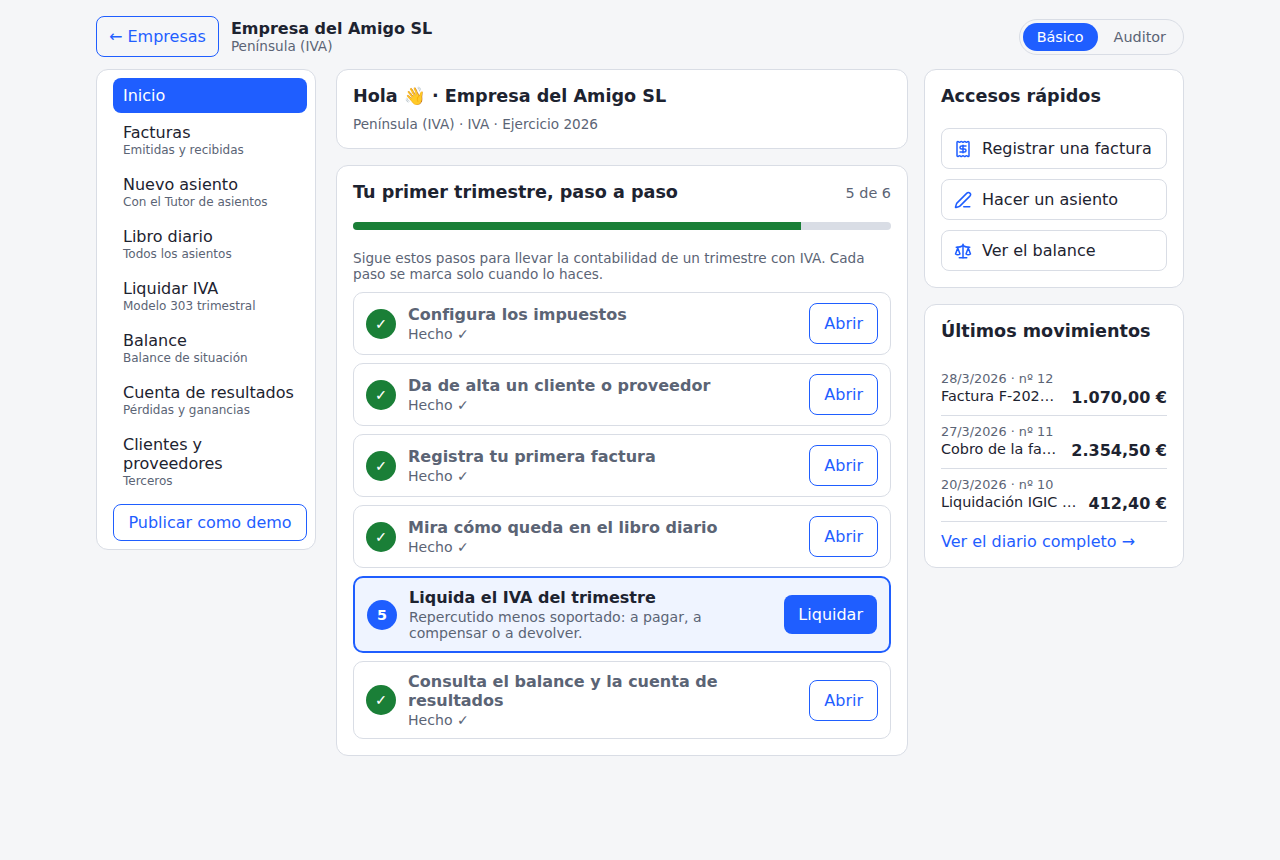
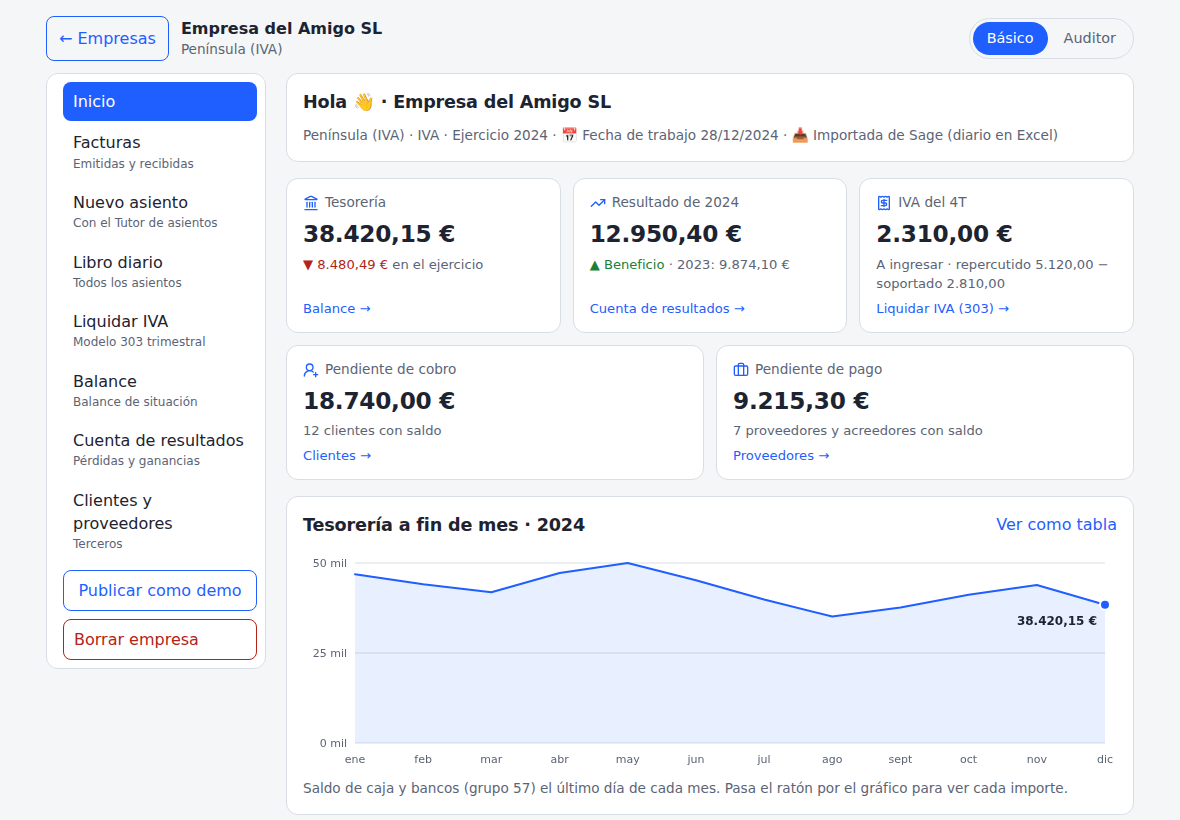
docs: cierre v0.30.0 (ADR 0028, bitácora, CHANGELOG, README y capturas)

diff --git a/README.md b/README.md
@@ -24,20 +24,22 @@ Proyecto de aprendizaje en evolución.
 > - a guided home screen, a Basic / Auditor menu, plain-language error messages, journal-entry templates and an
 >   in-app glossary with Business Central / SAP equivalents. Accessible: no axe-core issues (WCAG 2 A/AA);
 > - an audit trail (ledger → journal entry → ledger of each account), a per-company work date, and fast reports
->   on real multi-year journals (tens of thousands of lines).
+>   on real multi-year journals (tens of thousands of lines);
+> - a home dashboard (cash, result, VAT, receivables, payables and month-end cash chart), comparative statements with
+>   horizontal analysis, a cash-flow waterfall, ratio trends, and Excel export / print for every report.
 >
 > Data model inspired by Business Central and SAP FI. Database in English, bilingual UI (Spanish / English),
 > multi-company and multi-user, with guest access to demo companies (CAPTCHA-protected). Accounting rules are enforced
 > by PostgreSQL, security headers and a strict CSP protect the web, and every pull request is checked by CI
 > (SQL tests, web unit tests, lint, build and dependency audit). Learning project, work in progress.
 
-| Inicio guiado | Asiento con plantilla |
+| Inicio con indicadores | Asiento con plantilla |
 |---|---|
-| ![Inicio con la ruta guiada](docs/capturas/02-inicio.png) | ![Asiento con plantilla y cuadre](docs/capturas/03-asiento-plantilla.png) |
+| ![Inicio con indicadores y tesorería mes a mes](docs/capturas/02-inicio.png) | ![Asiento con plantilla y cuadre](docs/capturas/03-asiento-plantilla.png) |
 | **Balance (modo oscuro) con el glosario** | **Modo auditor de una empresa importada** |
 | ![Balance con el globo del glosario](docs/capturas/04-balance-oscuro.png) | ![Recorrido del auditor](docs/capturas/05-modo-auditor.png) |
 
-Más capturas: [pantalla de entrada](docs/capturas/01-entrada.png) · [errores en lenguaje claro](docs/capturas/06-errores-claros.png) · [Inicio en el móvil](docs/capturas/07-inicio-movil.png)
+Más capturas: [pantalla de entrada](docs/capturas/01-entrada.png) · [errores en lenguaje claro](docs/capturas/06-errores-claros.png) · [Inicio en el móvil](docs/capturas/07-inicio-movil.png) · [cascada del EFE](docs/capturas/08-efe-cascada.png) · [Balance comparativo](docs/capturas/09-balance-comparativo.png) · [libro mayor en el móvil](docs/capturas/10-mayor-movil.png)
 
 ---
 
@@ -48,13 +50,17 @@ española y el funcionamiento real de un ERP. Los ERP comerciales son caros y di
 propia, así que decidí **construir uno**. Diseñar la tabla de asientos obliga a entender *por qué* un ERP impone
 cada regla. Además, todo el código está en inglés para practicar el vocabulario técnico de BC y SAP.
 
-## ¿Qué hace hoy? (v0.29.1)
+## ¿Qué hace hoy? (v0.30.0)
 
 **Primeros pasos y navegación**
 - **Pantalla de Inicio** en cada empresa:
   - **ruta guiada** "Tu primer trimestre, paso a paso" (impuestos → tercero → factura → diario → liquidación →
     balance). Los pasos se marcan solos al hacerlos.
   - en las empresas importadas y las demos, un **recorrido de auditor** por las cuentas.
+  - **indicadores** a la fecha de trabajo: tesorería, resultado (frente al año anterior), IVA/IGIC del trimestre,
+    pendiente de cobro y de pago, y la **tesorería a fin de mes** en un gráfico. Cada cifra lleva a su informe. Salen
+    arriba en las empresas importadas y demos; en una empresa propia, cuando ya tiene lo básico (y la ruta se pliega
+    al completarla).
 - **Modo Básico / Auditor:** un menú corto en lenguaje sencillo para quien empieza (8 entradas) o el menú completo
   por áreas para revisar.
 - **Cada pantalla tiene su enlace** (`#/empresa/<id>/balance`): se puede recargar, volver atrás y compartir.
@@ -103,15 +109,20 @@ cada regla. Además, todo el código está en inglés para practicar el vocabula
 
 **Estados financieros e informes (mirada de auditor)**
 - **Balance de situación** y **cuenta de pérdidas y ganancias** (modelo PYMES del PGC), con desglose hasta la
-  subcuenta.
+  subcuenta y **análisis horizontal**: año anterior, variación en importe y en %. A mitad de ejercicio, la PyG se
+  compara con el mismo periodo y el Balance con el cierre anterior (NIC 34).
 - **Estado de flujos de efectivo** por el método **directo** y el **indirecto**, con el cuadre del auditor entre
-  los dos.
+  los dos, y una **cascada** que enseña de dónde viene y a dónde va el dinero del año.
 - **Ratios:**
   - liquidez, solvencia, endeudamiento y rentabilidad;
   - periodos medios de cobro y de pago;
-  - zonas de referencia y explicación de cada uno.
+  - zonas de referencia y explicación de cada uno;
+  - **evolución de cada ratio** en todos los ejercicios, con su zona de referencia sombreada.
 - **Libro diario**, **sumas y saldos**, **libro mayor** y **saldos anómalos** (saldo contrario a su naturaleza y
   reclasificación al cierre).
+- **Exportar a Excel** (importes como números y fechas como fechas, listos para una tabla dinámica o Power BI) e
+  **imprimir / guardar en PDF** el Balance, la PyG, el EFE, sumas y saldos, el mayor y el diario.
+- En el móvil, el mayor y sumas y saldos se ven como **tarjetas**, y las fechas van en formato dd/mm/aaaa.
 - **Rastro contable:** el nº de asiento del mayor abre la **ficha del asiento**, y cada cuenta de la ficha (y del
   diario) abre su libro mayor; una anulación lleva a su pareja. Como el FBL3N → FB03 de SAP. "Volver" y el botón
   atrás deshacen el camino.
@@ -167,7 +178,7 @@ cada regla. Además, todo el código está en inglés para practicar el vocabula
 | Web | **React + Vite** | Componentes por pantalla, i18n propio (es/en), rutas con almohadilla, iconos `lucide-react` |
 | IA | **Cloudflare Workers AI** + Pages Functions | `/api/ai` (Mistral Small 3.1) y `/api/tutor` (gpt-oss-120b); la clave nunca llega al navegador |
 | Despliegue | **Cloudflare Pages** | Despliegue automático desde `main`, dirección de prueba por rama y cabeceras de seguridad (`_headers`) |
-| Calidad | **GitHub Actions** + **Vitest** + Dependabot | 24 pruebas SQL, 62 tests de la web, lint, build y auditoría de dependencias en cada Pull Request |
+| Calidad | **GitHub Actions** + **Vitest** + Dependabot | 26 pruebas SQL, 75 tests de la web, lint, build y auditoría de dependencias en cada Pull Request |
 | Versionado | Git + GitHub | Ramas, Pull Requests, `main` protegida, versiones etiquetadas y decisiones documentadas (ADR) |
 
 **Principio clave:** la web nunca es la única barrera. Aunque alguien manipule el navegador, PostgreSQL rechaza:
@@ -215,10 +226,10 @@ Detalle en [`docs/modelo-datos.md`](docs/modelo-datos.md) y vocabulario español
 ├── SECURITY.md                cómo avisar de un fallo de seguridad
 ├── scripts/test-db.sh         ejecuta todas las pruebas SQL, cada una en una base limpia
 ├── database/
-│   ├── migrations/            0001 → 0030, se ejecutan en orden en Supabase
+│   ├── migrations/            0001 → 0032, se ejecutan en orden en Supabase
 │   ├── reset/                 reset del schema antiguo (solo histórico)
 │   ├── seed/                  datos de ejemplo (opcional)
-│   └── tests/                 pruebas automáticas en SQL (fases 1 → 24) y simulador de Supabase
+│   └── tests/                 pruebas automáticas en SQL (fases 1 → 26) y simulador de Supabase
 ├── frontend/                  web React + Vite
 │   ├── .env.example           variables de entorno (sin valores reales)
 │   ├── public/_headers        cabeceras de seguridad (CSP…) que aplica Cloudflare Pages
@@ -231,6 +242,9 @@ Detalle en [`docs/modelo-datos.md`](docs/modelo-datos.md) y vocabulario español
 │       ├── workDate.js        fecha de trabajo de cada empresa
 │       ├── paging.js          lecturas de más de 1.000 filas, por páginas
 │       ├── deleteCompany.js   borrar una empresa por tandas
+│       ├── chart.js           marcas de los ejes y tramos de la cascada (gráficos en SVG, sin librerías)
+│       ├── compare.js         análisis horizontal: variación frente al año anterior
+│       ├── exportXlsx.js      exportar los informes a Excel
 │       ├── activity.js        aviso "Cargando…" global
 │       ├── errors.js          errores de la base de datos en lenguaje claro
 │       ├── templates.js       plantillas de asientos frecuentes
@@ -246,17 +260,17 @@ Detalle en [`docs/modelo-datos.md`](docs/modelo-datos.md) y vocabulario español
     ├── glosario.md            vocabulario contable bilingüe
     ├── seguridad-supabase.md  lista de ajustes de seguridad del panel de Supabase
     ├── capturas/              capturas de la app para el README
-    └── decisiones/            ADR 0001 → 0027
+    └── decisiones/            ADR 0001 → 0028
 ```
 
 ## Calidad
 
 - **Integración continua** (GitHub Actions) en cada Pull Request:
-  - las 24 pruebas de la base de datos sobre PostgreSQL 16, cada una en una base limpia con todas las migraciones
+  - las 26 pruebas de la base de datos sobre PostgreSQL 16, cada una en una base limpia con todas las migraciones
     (la fase 23 vigila también que toda clave foránea tenga índice);
-  - **62 tests de la web con Vitest**: formatos, rutas, importadores, errores, idiomas (español e inglés con las
+  - **75 tests de la web con Vitest**: formatos, rutas, importadores, errores, idiomas (español e inglés con las
     mismas claves), glosario, plantillas, la defensa de las funciones de IA, la lectura por páginas, el borrado por
-    tandas y la fecha de trabajo;
+    tandas, la fecha de trabajo, los gráficos, el análisis horizontal y la exportación a Excel;
   - lint, build y auditoría de dependencias de la web.
 - **Accesibilidad** comprobada con axe-core (WCAG 2 A/AA) en las pantallas principales, en modo claro y oscuro.
 - **Rendimiento** probado en local con una contabilidad de 120.000 apuntes antes de cada entrega.
@@ -266,7 +280,7 @@ Detalle en [`docs/modelo-datos.md`](docs/modelo-datos.md) y vocabulario español
 
 1. **Base de datos.** En un proyecto de Supabase:
    - activa **`pg_cron`** en *Database → Extensions* (para la limpieza de invitados);
-   - en el *SQL Editor*, ejecuta en orden `database/migrations/0001` … `0030`.
+   - en el *SQL Editor*, ejecuta en orden `database/migrations/0001` … `0032`.
 2. **API.** En *Project Settings → Data API → Exposed schemas*, añade `erp`.
 3. **Invitados** (opcional, **después** de la migración 0015): *Authentication → Sign In / Providers* → activa
    **Allow anonymous sign-ins**.
@@ -315,15 +329,15 @@ Detalle en [`docs/modelo-datos.md`](docs/modelo-datos.md) y vocabulario español
 Con PostgreSQL instalado (Linux, WSL o Git Bash):
 
 ```bash
-bash scripts/test-db.sh            # las 24 pruebas, cada una en una base limpia
-bash scripts/test-db.sh fase24     # solo las que contienen "fase24"
+bash scripts/test-db.sh            # las 26 pruebas, cada una en una base limpia
+bash scripts/test-db.sh fase25     # solo las que contienen "fase25"
 ```
 
 ### Tests de la web
 
 ```bash
 cd frontend
-npm test                           # 62 tests con Vitest
+npm test                           # 75 tests con Vitest
 ```
 
 ### Importar una contabilidad propia
@@ -362,6 +376,7 @@ cuadrados. El ERP también lee directamente los diarios de Sage (Excel) y Busine
 - [x] **v0.28.0**: seguridad (cabeceras, IA endurecida, CAPTCHA, limpieza de invitados y tests de la web)
 - [x] **v0.29.0**: libro mayor rápido con datos reales, borrar empresa, fecha de trabajo y rastro contable
 - [x] **v0.29.1**: seguridad (solo el propietario nombra titulares de los datos), licencia MIT, SECURITY.md y Dependabot
+- [x] **v0.30.0**: Inicio con indicadores, Balance y PyG comparativos, cascada del EFE, evolución de ratios, Excel e imprimir
 - [ ] Inmovilizado: fichas de activos, plan de amortización y asiento mensual a contabilidad
 - [ ] Inventario y nóminas
 - [ ] IA: supuestos prácticos autocorregidos

diff --git a/docs/decisiones/0028-bloque-visual-indicadores-graficos-y-exportacion.md b/docs/decisiones/0028-bloque-visual-indicadores-graficos-y-exportacion.md
@@ -1,0 +1,74 @@
+# ADR 0028 · Bloque visual: indicadores, estados comparativos, gráficos con criterio y exportación
+
+- **Fecha:** 2026-10-12
+- **Versión:** v0.30.0
+- **Estado:** aceptada
+
+## Contexto
+
+Tres revisiones externas del proyecto coincidieron: el dominio contable y la documentación son lo más fuerte (9 a
+9,5 sobre 10), y lo **visual** es donde más margen hay (6,8 a 8,5). La decisión fue un bloque visual con una premisa:
+**menos es más**. Solo los gráficos que dan información útil de un vistazo; nada de gráficos por hacer gráficos.
+
+## Decisión
+
+1. **Inicio con indicadores** (`erp.home_kpis`, migración 0031). Como el *Role Center* de BC o la *Overview Page* de
+   SAP Fiori:
+   - **5 cifras a la fecha de trabajo**: tesorería (57), resultado (7 − 6) frente al año anterior, IVA/IGIC del
+     trimestre, pendiente de cobro (43) y de pago (40, 41). Cada cifra lleva a su informe.
+   - **Un solo gráfico: tesorería a fin de mes.** Es la primera pregunta de quien lleva una empresa. Tiene el eje
+     desde 0 (con área, cortarlo exageraría), 3 marcas, un único rótulo (el saldo final), un tooltip y "Ver como
+     tabla".
+   - **Reglas contables:**
+     - sin regularización ni cierre (a 31/12 de un ejercicio cerrado no sale todo a 0);
+     - el IVA del trimestre sin el asiento de liquidación (4750 / 4700);
+     - la tesorería inicial es la del asiento de apertura.
+   - **Según quién entra:**
+     - empresa importada o demo → indicadores arriba;
+     - empresa propia que empieza → solo la ruta guiada (los indicadores estarían a 0);
+     - empresa propia con lo básico hecho → los indicadores aparecen debajo de la ruta;
+     - empresa con la ruta completa → indicadores arriba y la ruta plegada.
+   - **Rendimiento:** permiso comprobado una vez (`can_read`) y `jit = off`. El primer intento tardaba 5 s
+     (permisos fila a fila y compilación JIT); el definitivo, 0,17 s con 120.000 apuntes.
+2. **Balance y PyG comparativos** (migración 0032 y `src/compare.js`):
+   - la columna del año anterior ya existía; se añade el **análisis horizontal**: variación en importe y en %, y el
+     año anterior también al desplegar una partida;
+   - **corregido:** a mitad de ejercicio, el Balance se comparaba con la misma fecha del año anterior. Ahora se compara
+     con el **cierre anterior**, y la PyG con el **mismo periodo** (NIC 34);
+   - la variación va **sin color**: que suba un gasto o un ingreso no es bueno o malo por sí solo.
+3. **Gráficos con criterio:**
+   - ✅ **cascada del EFE**: efectivo inicial → explotación → inversión → financiación → efectivo final. Resume más de
+     30 líneas en 5 barras. Lleva el signo escrito además del color y la línea del cero (descubierto);
+   - ✅ **evolución de cada ratio** en todos los ejercicios, con la zona de referencia sombreada. Solo al desplegar el
+     ratio y con 3 años o más: muestra la tendencia, que la tabla no enseña;
+   - ❌ **IVA por trimestre**: 4 cifras que ya están en el historial de liquidaciones. Un gráfico no añadiría nada.
+   - **Dibujados a mano en SVG**, sin librería: pocas líneas, ningún peso extra y la CSP intacta.
+4. **Exportar a Excel e imprimir** (`src/exportXlsx.js`, `ReportActions`) en Balance, PyG, EFE, sumas y saldos,
+   mayor y diario:
+   - importes como **números** con formato, fechas como **número de serie de Excel** (con objetos `Date`, SheetJS
+     desplazaba algunos días por la zona horaria), cuentas como texto y autofiltro en la cabecera;
+   - la librería xlsx solo se descarga al pulsar el botón;
+   - para imprimir, hoja limpia en blanco y negro (también desde el modo oscuro), con empresa y filtros, y la cabecera
+     de la tabla repetida en cada página.
+5. **Pulido:**
+   - mayor y sumas y saldos en **tarjetas** en el móvil (cada importe con su nombre y sin celdas vacías);
+   - fechas dd/mm/aaaa sin desfase;
+   - `tabular-nums` en todas las cifras;
+   - filtros a todo el ancho en el móvil.
+
+## Alternativas descartadas
+
+- **Recharts u otra librería de gráficos:** con una línea, una cascada y una tendencia pequeña, dibujar en SVG es más
+  simple y más ligero. Se reconsiderará si llegan gráficos más complejos.
+- **Indicadores siempre visibles:** en una empresa que empieza estarían a cero y taparían la ruta guiada.
+- **Un dashboard con muchos gráficos:** contradice "menos es más"; el detalle está a un clic en cada informe.
+- **Colorear la variación** (verde sube, rojo baja): engaña con los gastos.
+
+## Consecuencias
+
+- El ERP se entiende de un vistazo al entrar, y los informes salen a Excel para trabajarlos o llevarlos a Power BI.
+- Se corrigieron de paso:
+  - un fallo contable (el Balance intermedio comparado con la misma fecha del año anterior);
+  - un fallo de contraste (opacidad en los pasos pendientes del recorrido);
+  - el desfase de un día en las fechas.
+- Las ideas que quedan están en `docs/ideas-pendientes.md`.

diff --git a/docs/bitacora.md b/docs/bitacora.md
@@ -784,3 +784,33 @@ asientos frecuentes.
 
 **Siguiente paso:** probar el ERP con una contabilidad de verdad y pulir lo que salga. Después, el **Inmovilizado**.
 
+## 2026-10-12 · v0.30.0 · Bloque visual: indicadores, estados comparativos, gráficos y exportación
+
+**Qué se hizo**
+- **Inicio con indicadores** (migración 0031):
+  - tesorería, resultado, IVA/IGIC del trimestre, pendiente de cobro y de pago, y la tesorería a fin de mes;
+  - según quién entra: el auditor ve las cifras arriba y quien empieza ve primero la ruta guiada.
+- **Balance y PyG** con variación en importe y en % frente al año anterior. Corregido el Balance intermedio, que
+  ahora se compara con el cierre anterior (migración 0032).
+- **Cascada del EFE** y **evolución de cada ratio** en el tiempo. El gráfico del IVA se descartó por no aportar nada.
+- **Excel e Imprimir** en los seis informes principales.
+- **Pulido:** tarjetas en el móvil, fechas dd/mm/aaaa y números alineados.
+- 26 pruebas SQL (fases 25 y 26 nuevas) y 75 tests de la web.
+
+**Lo que se aprende en esta fase**
+- **Menos es más:** un gráfico se justifica si responde a una pregunta mejor que la tabla. La cascada del EFE sí
+  (30 líneas en 5 barras); el IVA trimestral no (4 cifras).
+- **Honestidad visual:** con área, el eje empieza en 0; la variación no se colorea (un gasto que sube no siempre es
+  malo); el signo se escribe, no se deja solo al color.
+- **Indicadores que respetan la contabilidad:** sin regularización ni cierre, y sin el asiento de liquidación en el
+  IVA del trimestre. Si no, las cifras engañan justo en las fechas clave.
+- **Comparar bien es contabilidad (NIC 34):** el Balance es una foto, que se compara con la última foto aprobada; la
+  PyG es una película, que se compara con el mismo tramo.
+- **Rendimiento de verdad:** el *JIT* de PostgreSQL puede tardar más que la propia consulta, y comprobar permisos
+  fila a fila multiplica el tiempo. Se mide antes de entregar.
+- **Excel y las fechas:** un objeto `Date` cambia de día con la zona horaria; el número de serie de Excel no.
+
+**Decisiones:** ADR 0028 · Bloque visual: indicadores, estados comparativos, gráficos con criterio y exportación.
+
+**Siguiente paso:** usar el ERP con contabilidad real y pulir lo que salga. Después, el **Inmovilizado**.
+

diff --git a/CHANGELOG.md b/CHANGELOG.md
@@ -2,6 +2,29 @@
 
 Formato basado en [Keep a Changelog](https://keepachangelog.com/es-ES/1.1.0/) y versionado semántico.
 
+## [0.30.0] - 2026-10-12
+### Añadido
+- **Inicio con indicadores** a la fecha de trabajo:
+  - tesorería, resultado frente al año anterior, IVA/IGIC del trimestre, pendiente de cobro y de pago;
+  - gráfico de tesorería a fin de mes, con "Ver como tabla";
+  - se muestran según el tipo de empresa y el avance de la ruta guiada;
+  - migración `0031_home_kpis.sql` (`erp.home_kpis`) y prueba `test_fase25_home_kpis.sql`.
+- **Análisis horizontal** en el Balance y la PyG: variación en importe y en %, y el año anterior también al
+  desplegar una partida.
+- **Cascada del EFE** (de dónde viene y a dónde va el dinero) y **evolución de cada ratio** en todos los ejercicios.
+- **Exportar a Excel** e **Imprimir / guardar en PDF** en el Balance, la PyG, el EFE, sumas y saldos, el mayor y el
+  diario.
+- Mayor y sumas y saldos en **tarjetas** en el móvil.
+- `src/chart.js`, `src/compare.js` y `src/exportXlsx.js`, con sus tests (75 en total).
+### Cambiado
+- Fechas en formato dd/mm/aaaa en el diario y el mayor; cifras con `tabular-nums` en todas las tablas.
+- En la ruta guiada completa, los pasos se pliegan bajo los indicadores.
+### Corregido
+- **Balance a mitad de ejercicio:** ahora se compara con el cierre del ejercicio anterior, no con la misma fecha del
+  año anterior (migración `0032_comparative_statements.sql`, prueba `test_fase26_comparative.sql`).
+- Contraste insuficiente en los pasos pendientes del recorrido del auditor.
+- La tabla del Balance y la PyG con desplazamiento horizontal ahora se puede mover con el teclado.
+
 ## [0.29.1] - 2026-10-11
 ### Seguridad
 - **Corregido:** un admin de su propia empresa podía marcarse como titular de los datos
